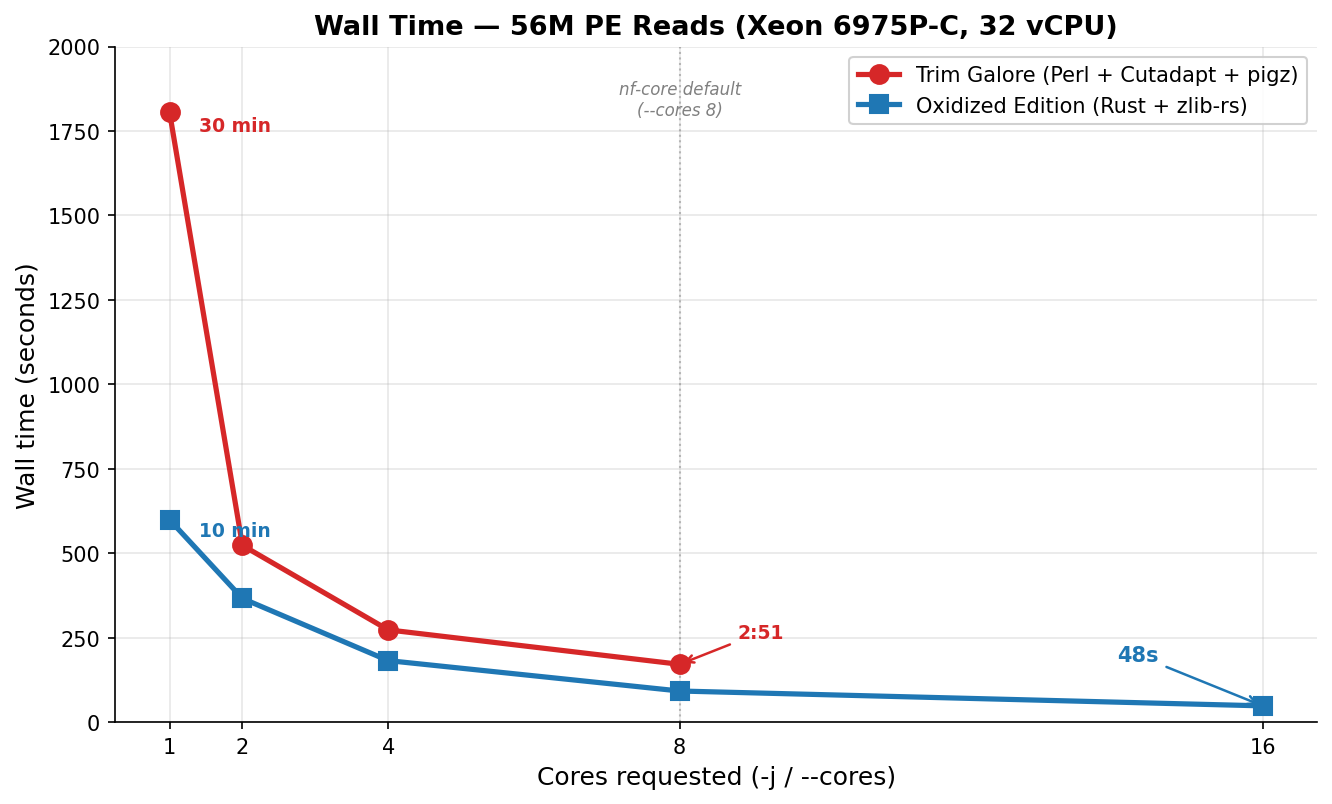
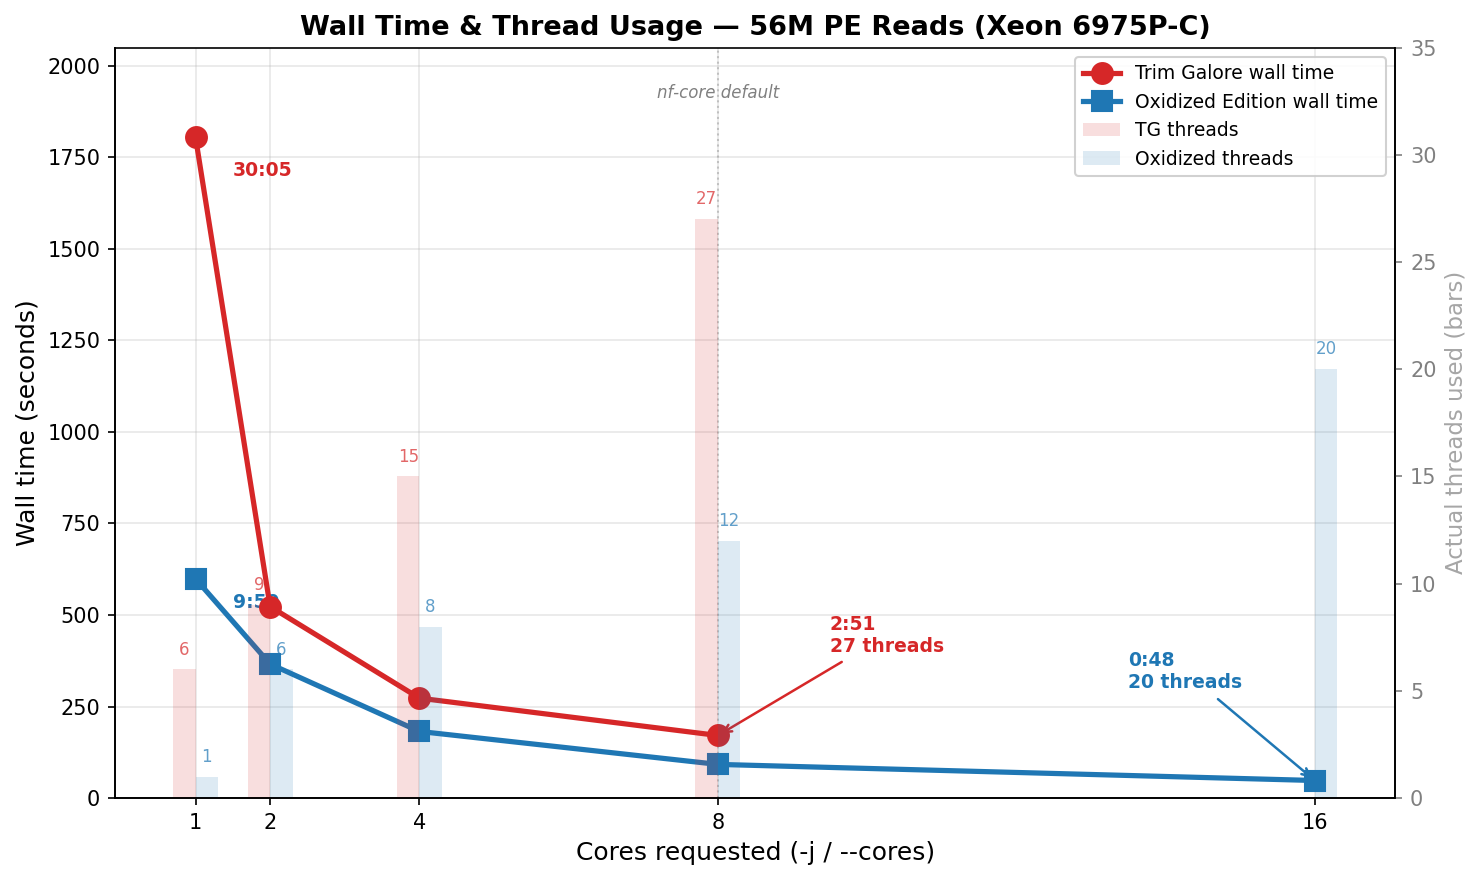
Add scaling chart, thread count explanation, fix M1 Pro
- New scaling chart: speedup vs TG -j 1 showing linear Oxidized
  scaling vs TG plateau, with thread counts annotated
- Wall time chart: add secondary axis showing actual thread usage
- Thread count explanation: 3N+3 (TG) vs N+4 (Oxidized) breakdown
- Fix M2 Pro → M1 Pro

diff --git a/optimus_prime/SUMMARY.md b/optimus_prime/SUMMARY.md
@@ -36,6 +36,8 @@ All outputs verified byte-identical (decompressed) across all core counts via md
 
 ![Wall Time Comparison](benchmark_wall_time.png)
 
+![Scaling Comparison](benchmark_scaling.png)
+
 ![CPU Efficiency Comparison](benchmark_cpu_time.png)
 
 ### Server benchmark — Intel Xeon 6975P-C (32 vCPU)
@@ -110,15 +112,38 @@ The real wins come from **architectural differences:**
 
 2. **Worker-pool parallelism.** Each worker independently handles trimming **and** gzip compression for its batch of reads, producing independently-compressed gzip blocks concatenated in order (valid per RFC 1952). This distributes the dominant cost (compression) across N workers instead of funneling through one thread.
 
-3. **Fewer threads, more work per thread.** Trim Galore's `-j N` spawns ~3N+3 threads across Cutadapt, pigz, and Perl. The Oxidized Edition uses N+4 threads (N workers + 2 decompressors + 1 batcher + 1 writer). At `-j 8` vs `--cores 8`: 27 threads vs 12 threads, yet 1.9x faster.
+3. **Fewer threads, more work per thread.** When you pass `-j N` to Trim Galore, three separate programs each independently spawn N threads:
 
 ```
-Architecture (--cores N):
-  2 decompression threads (background, one per input file)
-  1 batcher thread (creates numbered batches of 4096 reads)
-  N worker threads (each: trim + gzip compress → independent gzip block)
-  1 main thread (collects blocks in order → writes to output files)
+Trim Galore -j N thread breakdown:
+  Cutadapt:          N workers + 1 reader + 1 writer  =  N+2
+  pigz (compress):   N threads                         =  N
+  pigz (decompress): N threads                         =  N
+  Perl:              1 main process                    =  1
+                                                       ≈ 3N+3 total
 ```
+
+The Oxidized Edition uses a single process with a fixed infrastructure cost of +4 threads:
+
+```
+Oxidized Edition --cores N thread breakdown:
+  N worker threads (each: trim + gzip compress → independent gzip block)
+  2 decompression threads (one per input file)
+  1 batcher thread (creates numbered batches of 4096 reads)
+  1 main thread (collects blocks in order → writes to output files)
+                                                       = N+4 total
+```
+
+At `--cores 1`, the worker-pool is bypassed entirely — a single thread does everything with zero parallelism overhead (1 thread, 5 MB RAM). The infrastructure cost only applies from `--cores 2` upward, where each additional core adds exactly 1 thread and ~10 MB of memory.
+
+| Cores | TG threads (3N+3) | Oxidized threads (N+4) |
+|------:|-------------------:|-----------------------:|
+| 1 | 6 | 1 |
+| 4 | 15 | 8 |
+| 8 | 27 | 12 |
+| 16 | — | 20 |
+
+At `-j 8` vs `--cores 8`: 27 threads vs 12 threads, yet 1.9x faster.
 
 Parallel efficiency on the Xeon: 82% (2 cores) → 82% (4 cores) → 81% (8 cores) → 78% (16 cores). The gentle slope means adding more cores continues to pay off up to at least 16.
 
